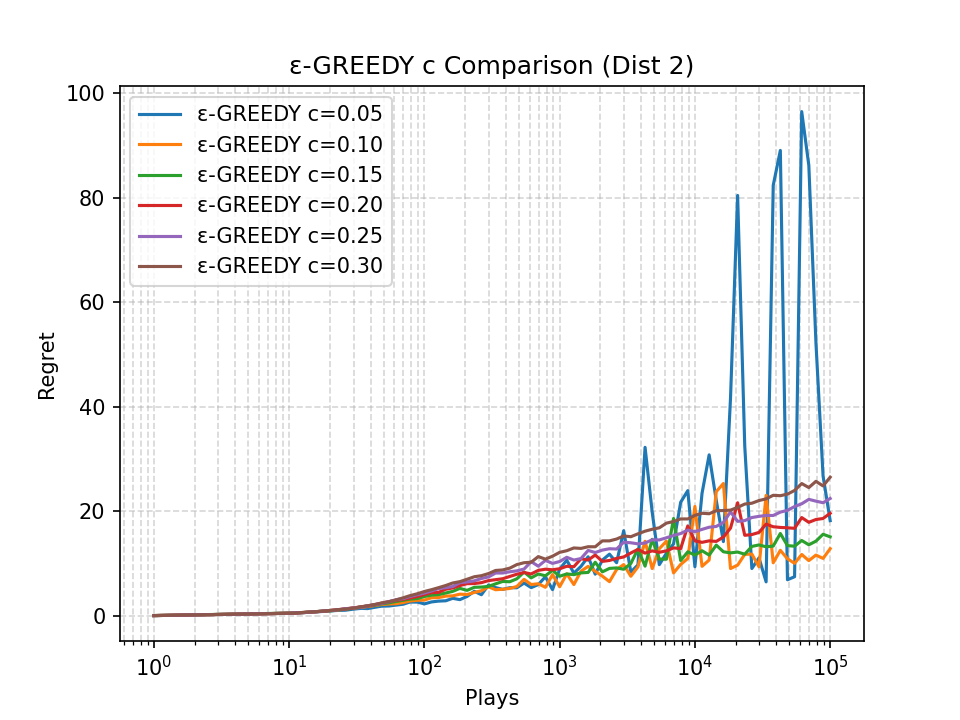
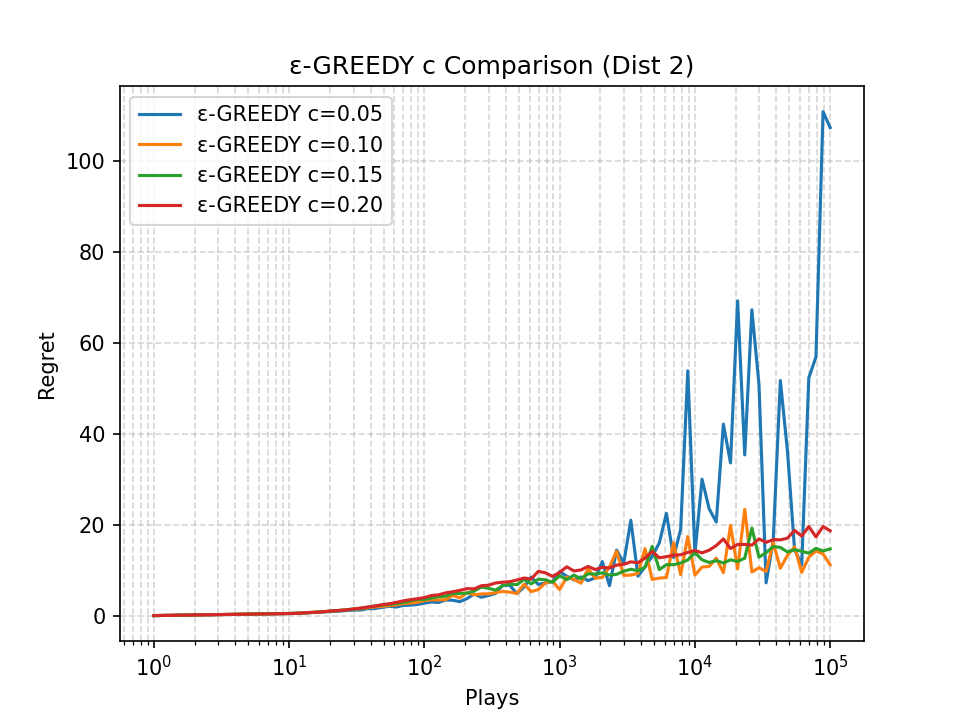
.

diff --git a/main.py b/main.py
@@ -53,27 +53,20 @@ eng_005 = simulation.run_simulations(5, data2, "en_greedy", c=0.05, d=0.1)
 eng_010 = simulation.run_simulations(5, data2, "en_greedy", c=0.10, d=0.1)
 eng_015 = simulation.run_simulations(5, data2, "en_greedy", c=0.15, d=0.1)
 eng_020 = simulation.run_simulations(5, data2, "en_greedy", c=0.20, d=0.1)
-eng_025 = simulation.run_simulations(5, data2, "en_greedy", c=0.25, d=0.1)
-eng_030 = simulation.run_simulations(5, data2, "en_greedy", c=0.30, d=0.1)
 
 graphs.multi_regret_plot([
     (eng_005[0], eng_005[1], "ε-GREEDY c=0.05"),
     (eng_010[0], eng_010[1], "ε-GREEDY c=0.10"),
     (eng_015[0], eng_015[1], "ε-GREEDY c=0.15"),
-    (eng_020[0], eng_020[1], "ε-GREEDY c=0.20"),
-    (eng_025[0], eng_025[1], "ε-GREEDY c=0.25"),
-    (eng_030[0], eng_030[1], "ε-GREEDY c=0.30"),
+    (eng_020[0], eng_020[1], "ε-GREEDY c=0.20")
 ], title="ε-GREEDY c Comparison (Dist 2)", filename="en_greedy_c_dist2_regret")
 
 graphs.multi_best_machine_ratio_plot([
     (eng_005[0], eng_005[2], "ε-GREEDY c=0.05"),
     (eng_010[0], eng_010[2], "ε-GREEDY c=0.10"),
     (eng_015[0], eng_015[2], "ε-GREEDY c=0.15"),
-    (eng_020[0], eng_020[2], "ε-GREEDY c=0.20"),
-    (eng_025[0], eng_025[2], "ε-GREEDY c=0.25"),
-    (eng_030[0], eng_030[2], "ε-GREEDY c=0.30"),
+    (eng_020[0], eng_020[2], "ε-GREEDY c=0.20")
 ], title="ε-GREEDY c Comparison (Dist 2)", filename="en_greedy_c_dist2_ratio")
 
 print("Done.")
-
 """

diff --git a/theorems.py b/theorems.py
@@ -211,7 +211,7 @@ class Theorems():
   
         machine_id = [m[0] for m in self.machines]
         machine_count = len(self.machines)
- 
+        
         # main loop: n is the current play number, goes from 1 to number_of_pulls
         for n in range(1, number_of_pulls + 1):
             # epsilon_n is our exploration probability for this round
